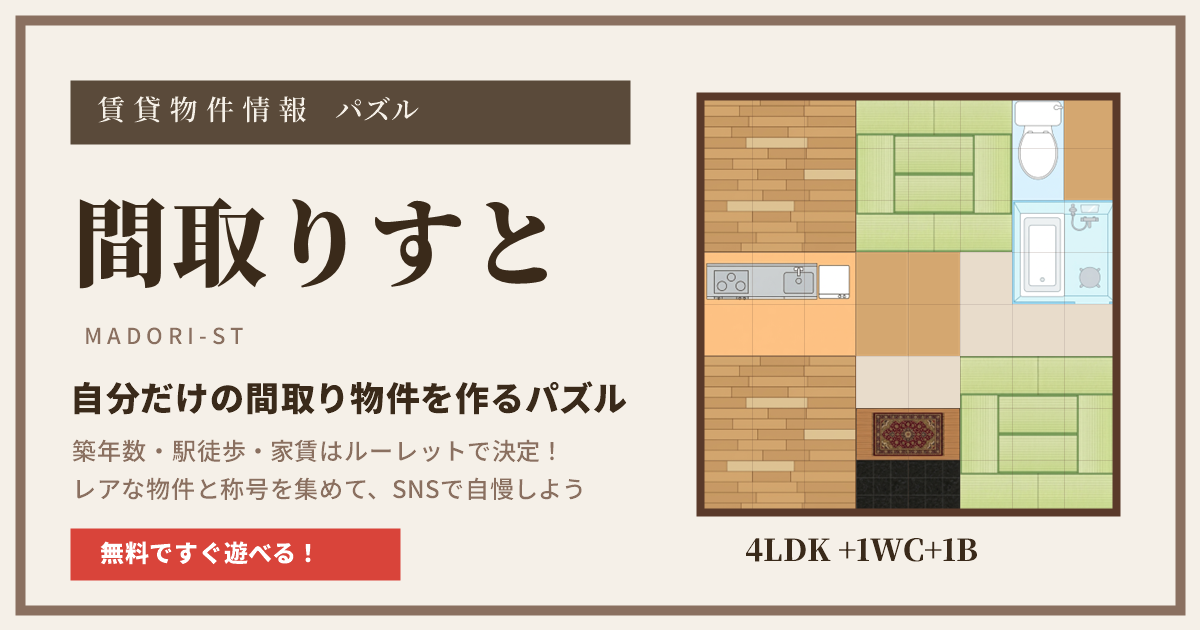
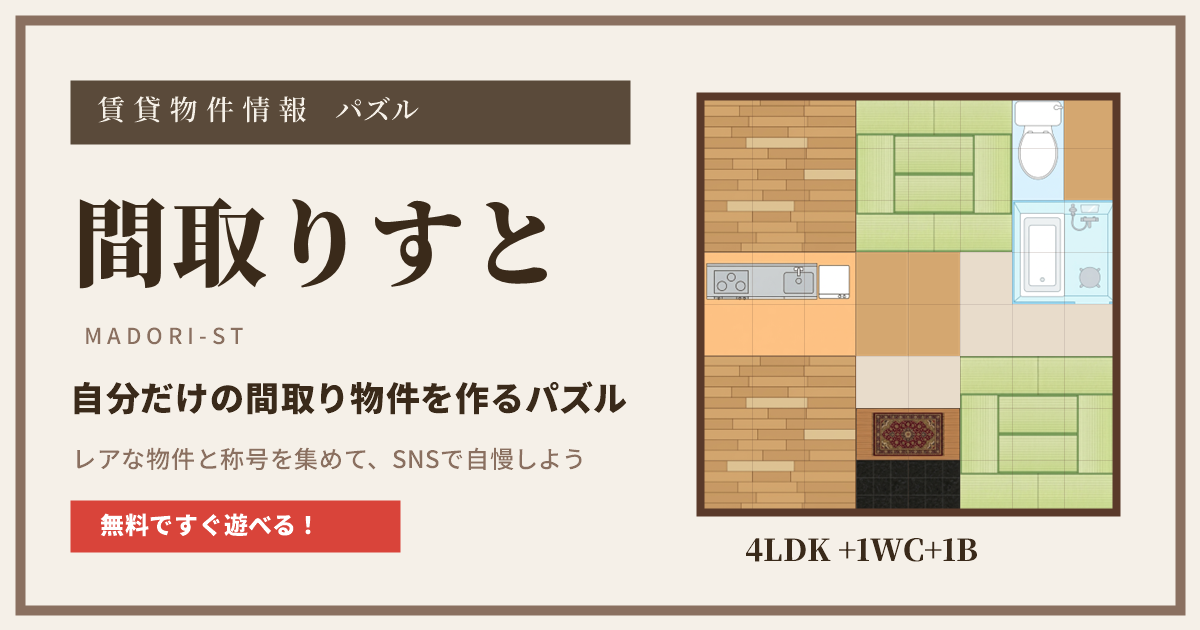
テスト版のみ：完成カードのマドリスト名の右に称号バッジ・プロフィールにつける称号（レア度順）・称号一覧からタップでつけ外し・条件の文字を大きく・紹介文からルーレットの一文を外す

Changed region(s): [[0.0308, 0.6937, 0.4933, 0.9349]]

diff --git a/test.html b/test.html
@@ -5,11 +5,11 @@
 <meta name="viewport" content="width=device-width, initial-scale=1.0, maximum-scale=1.0, user-scalable=no, viewport-fit=cover">
 <title>間取りすと｜自分だけの間取り物件を作るパズル</title>
 <!-- リンクを貼った時に出る紹介（LINE・X など） -->
-<meta name="description" content="パーツをはめて、あなただけの間取り物件を完成させるパズルゲーム。築年数・駅徒歩・家賃はルーレットで決まる！レアな物件と称号を集めて、SNSで自慢しよう🏠">
+<meta name="description" content="パーツをはめて、あなただけの間取り物件を完成させるパズルゲーム。レアな物件と称号を集めて、SNSで自慢しよう🏠">
 <meta property="og:type" content="website">
 <meta property="og:site_name" content="間取りすと">
 <meta property="og:title" content="間取りすと｜自分だけの間取り物件を作るパズル">
-<meta property="og:description" content="パーツをはめて、あなただけの間取り物件を完成させるパズルゲーム。築年数・駅徒歩・家賃はルーレットで決まる！レアな物件と称号を集めて、SNSで自慢しよう🏠">
+<meta property="og:description" content="パーツをはめて、あなただけの間取り物件を完成させるパズルゲーム。レアな物件と称号を集めて、SNSで自慢しよう🏠">
 <meta property="og:url" content="https://ramune-ai.github.io/madori-st/">
 <meta property="og:image" content="https://ramune-ai.github.io/madori-st/image/ogp.png">
 <meta name="twitter:card" content="summary_large_image">
@@ -504,6 +504,26 @@ body.resume-hide #screen-game{opacity:0!important;}
   border-color:rgba(90,74,58,.14);cursor:default;
 }
 
+/* プロフィール：欄の見出し */
+.ne-label{font-family:'Noto Serif JP',serif;font-size:14px;font-weight:700;color:var(--brown-dark);margin:2px 0 8px;letter-spacing:.06em;text-align:left;}
+.ne-label span{display:block;font-family:'Noto Sans JP',sans-serif;font-size:11px;font-weight:400;color:var(--brown-light);letter-spacing:.02em;margin-top:2px;}
+/* 称号一覧：つけている称号 */
+.title-grid-card.owned{cursor:pointer;}
+.title-grid-card.equipped{border-color:#5a8a50;box-shadow:0 0 0 2px rgba(90,138,80,.45);}
+.title-grid-eq{position:absolute;top:6px;left:6px;font-size:10px;font-weight:800;letter-spacing:.04em;background:#5a8a50;color:#fff;padding:2px 7px;border-radius:10px;}
+.titles-hint{font-size:13px;color:var(--brown);background:#fff8ea;border:1px dashed rgba(200,160,96,.6);border-radius:8px;padding:6px 10px;margin:-4px 0 12px;text-align:center;}
+/* 称号をつける・外す時の確認 */
+#mini-confirm{position:fixed;inset:0;z-index:1200;display:none;align-items:center;justify-content:center;background:rgba(40,28,18,.45);}
+#mini-confirm.active{display:flex;}
+#mini-confirm .mc-card{background:#f5f0e8;border-radius:16px;padding:22px 22px 18px;width:min(300px,86vw);text-align:center;box-shadow:0 10px 30px rgba(0,0,0,.3);font-family:'Noto Sans JP',sans-serif;}
+#mini-confirm .mc-badge{display:flex;justify-content:center;margin-bottom:8px;}
+#mini-confirm .mc-name{font-family:'Noto Serif JP',serif;font-size:18px;font-weight:700;color:var(--brown-dark);margin-bottom:6px;}
+#mini-confirm .mc-msg{font-size:14px;color:var(--brown);margin-bottom:16px;line-height:1.6;}
+#mini-confirm .mc-btns{display:flex;gap:10px;}
+#mini-confirm button{flex:1;padding:12px 0;border-radius:999px;font-size:15px;font-weight:700;cursor:pointer;font-family:inherit;}
+#mini-confirm .mc-ok{background:var(--brown-dark);color:#f5f0e8;border:none;}
+#mini-confirm .mc-no{background:#fff;color:var(--brown-dark);border:1.5px solid rgba(90,74,58,.25);}
+@media(min-width:600px){ #mini-confirm .mc-card{zoom:var(--pcs,1);} }
 /* チュートリアル：説明しているボタンに目が行くよう、光の輪を広げる */
 @keyframes tutFocus{
   0%{box-shadow:0 0 0 3px rgba(232,160,32,.95),0 0 0 3px rgba(232,160,32,.6);}
@@ -914,7 +934,8 @@ html{overflow-y:scroll;}html,body{overflow-x:hidden;}
 .res-meta{font-family:'Noto Sans JP',sans-serif;font-size:14px;color:#5a4a3a;letter-spacing:.04em;text-align:center;line-height:1.4;padding:4px 8px 0;max-width:100%;}
 .res-meta-name{font-family:'Noto Serif JP',serif;font-weight:700;white-space:nowrap;display:flex;align-items:center;justify-content:center;gap:6px;margin-bottom:3px;}
 .res-name-text{white-space:nowrap;}
-.res-name-badge{display:inline-flex;align-items:center;justify-content:center;flex-shrink:0;margin-right:4px;}
+.res-meta{display:flex;align-items:center;justify-content:center;gap:12px;}
+.res-name-badge{display:inline-flex;align-items:center;justify-content:center;flex-shrink:0;margin:0;}
 .res-meta-date{color:#8a7060;font-size:12px;text-align:center;}
 .res-promo-sep{border-top:1px dashed rgba(90,74,58,.3);margin:6px 8px 0;}
 .res-promo{margin-top:5px;padding-bottom:0;font-family:'Noto Sans JP',sans-serif;line-height:1.4;}
@@ -1084,19 +1105,19 @@ html{overflow-y:scroll;}html,body{overflow-x:hidden;}
   display:grid;
   grid-template-columns:repeat(4,1fr);
   /* auto だと称号名が2行のカードだけ背が伸びて高さが揃わないので固定する */
-  grid-auto-rows:164px;
+  grid-auto-rows:180px;
   gap:10px;
   padding:4px 0;
   align-content:start;
 }
 @media(max-width:520px){
-  .title-grid{grid-template-columns:repeat(2,1fr);grid-auto-rows:142px;gap:9px;}
+  .title-grid{grid-template-columns:repeat(2,1fr);grid-auto-rows:162px;gap:9px;}
   .title-grid-badge{font-size:30px;}
   .title-grid-name{font-size:16px;line-height:1.2;}
-  .title-grid-cond{font-size:11px;line-height:1.3;}
+
   .title-grid-name{font-size:17px;line-height:1.25;}
   .title-grid-card.locked .title-grid-name{font-size:16px;}
-  .title-grid-cond{font-size:12px;line-height:1.35;}
+  .title-grid-cond{font-size:14px;line-height:1.35;}
   .title-grid-card{padding:8px 8px;min-height:0;gap:4px;}
 }
 /* スマホのスタート画面：左上のリンクの下からロゴを始める（--start-top は fitStartTop が測る）。
@@ -1189,7 +1210,7 @@ html{overflow-y:scroll;}html,body{overflow-x:hidden;}
   font-size:11px;
 }
 .title-grid-cond{
-  font-size:11px;color:var(--brown-light);
+  font-size:14px;color:var(--brown-light);
   line-height:1.45;letter-spacing:.02em;
 }
 /* NEWは右上の角に。縦の場所を取らないのでカードの中身が押し出されない */
@@ -1528,8 +1549,8 @@ html{overflow-y:scroll;}html,body{overflow-x:hidden;}
   <button class="btn-start" onclick="gotoGame()">は じ め る</button>
   <!-- 集めたものを見る3枠。左からプロフィール／称号／マイ物件 -->
   <div class="start-sub-btns">
-    <button class="btn-sub" onclick="openNameEdit('name')">
-      <span class="sub-ico">👤</span>
+    <button class="btn-sub" onclick="openNameEdit('profile')">
+      <span class="sub-ico" id="start-prof-ico">👤</span>
       <span class="sub-name">プロフィール</span>
       <span class="sub-val" id="start-name-text">名前未設定</span>
     </button>
@@ -1552,11 +1573,13 @@ html{overflow-y:scroll;}html,body{overflow-x:hidden;}
   <div class="modal-box name-edit-box" style="padding:28px 28px 0;display:flex;flex-direction:column;max-height:84vh;">
     <button class="modal-close" onclick="closeNameEdit()">✕</button>
     <div class="modal-title" id="name-edit-modal-title">マドリスト名を設定</div>
+    <div class="ne-label" id="name-edit-title-label">つける称号<span>完成カードにバッジが付きます（レア度の高い順）</span></div>
+    <div id="name-edit-hint" style="font-size:11px;color:var(--brown-light);margin-bottom:10px;display:none;">称号を選んで名前と一緒に表示できます</div>
+    <div id="name-edit-title-list" style="display:flex;flex-wrap:wrap;gap:8px;margin-bottom:16px;overflow-y:auto;flex:1;min-height:0;"></div>
+    <div class="ne-label">マドリスト名</div>
     <input id="player-name-input" type="text" maxlength="8" placeholder="名前を入力（最大8文字）"
       style="width:100%;background:#fff;border:1px solid rgba(90,74,58,.25);border-radius:4px;padding:10px 14px;font-size:15px;color:var(--brown-dark);font-family:'Noto Serif JP',serif;letter-spacing:.1em;outline:none;margin-bottom:16px;"
       onfocus="this.style.borderColor='var(--accent)'" onblur="this.style.borderColor='rgba(90,74,58,.25)'">
-    <div id="name-edit-hint" style="font-size:11px;color:var(--brown-light);margin-bottom:16px;">称号を選んで名前と一緒に表示できます</div>
-    <div id="name-edit-title-list" style="display:flex;flex-wrap:wrap;gap:8px;margin-bottom:16px;overflow-y:auto;flex:1;"></div>
     <div class="name-edit-foot"><button onclick="saveNameEdit()" style="width:100%;background:var(--brown-dark);color:#f5f0e8;font-family:'Noto Serif JP',serif;font-size:15px;letter-spacing:.15em;padding:14px 0;border:none;border-radius:6px;cursor:pointer;">決　定</button></div>
   </div>
 </div>
@@ -1770,8 +1793,12 @@ html{overflow-y:scroll;}html,body{overflow-x:hidden;}
       </div>
       <!-- マドリスト名+称号バッジ → 公開日（中央） -->
       <div class="res-meta" id="res-meta">
-        <div class="res-meta-name"><span class="res-name-badge" id="res-meta-title" style="display:none;"></span><span class="res-name-text">マドリスト　<span id="res-name2">とくめい</span></span></div>
-        <div class="res-meta-date">情報公開日　<span id="res-date">--</span></div>
+        <div class="res-meta-lines">
+          <div class="res-meta-name"><span class="res-name-text">マドリスト　<span id="res-name2">とくめい</span></span></div>
+          <div class="res-meta-date">情報公開日　<span id="res-date">--</span></div>
+        </div>
+        <!-- つけている称号のバッジ（言葉はなし） -->
+        <span class="res-name-badge" id="res-meta-title" style="display:none;"></span>
       </div>
       <div class="res-promo-sep"></div>
       <div class="res-promo"><span class="res-promo-sns">X・Instagram・TikTok｜@ramune_aiai</span><span class="res-promo-author">　制作：らむねあい</span></div>
@@ -2471,6 +2498,13 @@ function updateStartProfile(){
     if(sc) sc.textContent=(hist.length-favN)+' / '+HISTORY_MAX+(favN?'　★'+favN:'');
   }catch(e){}
   window._playerName=name;
+  // つけている称号があれば、プロフィールのアイコンをそのバッジにする
+  try{
+    const sel=localStorage.getItem('madori-selected-title')||'';
+    const m=sel?ALL_TITLES_MASTER.find(x=>x.title===sel):null;
+    const ico=document.getElementById('start-prof-ico');
+    if(ico) ico.innerHTML=m?titleBadgeHTML(m.badge,m.rar,46):'👤';
+  }catch(e){}
 }
 function openNameEdit(mode){
   playSE('tap');
@@ -2502,6 +2536,11 @@ function openNameEdit(mode){
     noneBtn.style.cssText='padding:6px 14px;border-radius:20px;border:1.5px solid '+(sel===''?'var(--brown-dark)':'rgba(90,74,58,.25)')+';background:'+(sel===''?'var(--brown-dark)':'#fff')+';color:'+(sel===''?'#f5f0e8':'var(--brown-light)')+';font-size:12px;cursor:pointer;font-family:Noto Serif JP,serif;letter-spacing:.06em;transition:all .15s;';
     noneBtn.onclick=()=>selectTitleChip('');
     listEl.appendChild(noneBtn);
+    // レア度の高い順（出にくい順）に並べる
+    titles=titles.slice().sort((a,b)=>{
+      const ma=ALL_TITLES_MASTER.find(x=>x.title===a)||{}, mb=ALL_TITLES_MASTER.find(x=>x.title===b)||{};
+      return ((ma.rp==null?1:ma.rp)-(mb.rp==null?1:mb.rp))||((ma.rar||9)-(mb.rar||9));
+    });
     titles.forEach(t=>{
       const btn=document.createElement('button');
       btn.dataset.val=t;
@@ -2518,9 +2557,11 @@ function openNameEdit(mode){
   const hint=document.getElementById('name-edit-hint');
   const list2=document.getElementById('name-edit-title-list');
   if(inp) inp.style.display=(emode==='title')?'none':'';
-  if(hint) hint.style.display=(emode==='name')?'none':'';
   if(list2) list2.style.display=(emode==='name')?'none':'flex';
-  if(mt) mt.textContent=(emode==='title')?'表示称号を変更':(emode==='name')?'マドリスト名を編集':'マドリスト名を設定';
+  const tl=document.getElementById('name-edit-title-label');
+  if(tl) tl.style.display=(emode==='name')?'none':'';
+  document.querySelectorAll('#name-edit-overlay .ne-label').forEach(l=>{ if(l.id!=='name-edit-title-label') l.style.display=(emode==='title')?'none':''; });
+  if(mt) mt.textContent=(emode==='profile')?'プロフィール':(emode==='title')?'表示称号を変更':(emode==='name')?'マドリスト名を編集':'マドリスト名を設定';
   ov.classList.add('active');
 }
 function selectTitleChip(val){
@@ -2542,7 +2583,51 @@ function saveNameEdit(){
   localStorage.setItem('madori-player-name',name);
   localStorage.setItem('madori-selected-title',selTitle);
   updateStartProfile();
+  refreshResultBadge();
   closeNameEdit();
+}
+// 完成画面を開いている時は、つけた称号のバッジをすぐ反映する（シェア画像も作り直す）
+function refreshResultBadge(){
+  try{
+    const scr=document.getElementById('screen-result');
+    const mtEl=document.getElementById('res-meta-title');
+    if(!mtEl)return;
+    const sel=localStorage.getItem('madori-selected-title')||'';
+    const m=sel?ALL_TITLES_MASTER.find(x=>x.title===sel):null;
+    if(m){ mtEl.innerHTML=titleBadgeHTML(m.badge,m.rar,50); mtEl.title=sel; mtEl.style.display='inline-flex'; }
+    else mtEl.style.display='none';
+    if(scr&&scr.classList.contains('active')){
+      try{ if(window._lastResult)window._lastResult.equipped=sel; }catch(e){}
+      prepareShareImage();
+    }
+  }catch(e){}
+}
+// 小さな確認（OKで true）
+function miniConfirm(html,okLabel,noLabel){
+  return new Promise(res=>{
+    let el=document.getElementById('mini-confirm');
+    if(!el){ el=document.createElement('div'); el.id='mini-confirm'; document.body.appendChild(el); }
+    el.innerHTML='<div class="mc-card">'+html+'<div class="mc-btns"><button class="mc-no">'+(noLabel||'やめる')+'</button><button class="mc-ok">'+(okLabel||'OK')+'</button></div></div>';
+    el.classList.add('active');
+    const done=v=>{ el.classList.remove('active'); res(v); };
+    el.querySelector('.mc-ok').onclick=()=>done(true);
+    el.querySelector('.mc-no').onclick=()=>done(false);
+    el.onclick=e=>{ if(e.target===el)done(false); };
+  });
+}
+// 称号一覧から、タップでつける・外す
+async function toggleEquipTitle(title){
+  const m=ALL_TITLES_MASTER.find(x=>x.title===title); if(!m)return;
+  const cur=localStorage.getItem('madori-selected-title')||'';
+  const on=cur===title;
+  const html='<div class="mc-badge">'+titleBadgeHTML(m.badge,m.rar,64)+'</div><div class="mc-name">'+title+'</div>'
+    +'<div class="mc-msg">'+(on?'この称号を外しますか？':'この称号のバッジを、<br>完成カードにつけますか？')+'</div>';
+  const ok=await miniConfirm(html,on?'外す':'つける',on?'そのまま':'やめる');
+  if(!ok)return;
+  try{ localStorage.setItem('madori-selected-title',on?'':title); }catch(e){}
+  updateStartProfile(); refreshResultBadge();
+  showGameToast(on?'称号を外しました':'「'+title+'」をつけました');
+  renderTitlesPage();
 }
 function closeNameEdit(e){
   const ov=document.getElementById('name-edit-overlay');
@@ -3525,7 +3610,7 @@ async function renderHistoryCard(entry,snap){
     q('res-name2').textContent=(entry.propName||'').replace(/^間取りすと：/,'')||'とくめい';
     const mt=q('res-meta-title');
     const td=entry.equipped?ALL_TITLES_MASTER.find(t=>t.title===entry.equipped):null;
-    if(td){ mt.innerHTML=titleBadgeHTML(td.badge,td.rar,38); mt.style.display='inline-flex'; }
+    if(td){ mt.innerHTML=titleBadgeHTML(td.badge,td.rar,50); mt.style.display='inline-flex'; }
     else mt.style.display='none';
     q('res-date').textContent=_fmtHistDate(entry.date);
     drawResultPreview(q('res-madori-preview'),snap,390);
@@ -3868,13 +3953,24 @@ function renderTitlesPage(){
   }
   body.appendChild(header);
 
+  if(owned.size){
+    const hint=document.createElement('div');
+    hint.className='titles-hint';
+    hint.textContent='獲得した称号をタップすると、完成カードにバッジをつけられます';
+    body.appendChild(hint);
+  }
+  const equipped=localStorage.getItem('madori-selected-title')||'';
   const grid=document.createElement('div');
   grid.className='title-grid';
   pageItems.forEach(m=>{
     const isOwned=owned.has(m.title);
     const isNew=newSet.has(m.title);
     const card=document.createElement('div');
-    card.className='title-grid-card '+(isOwned?'owned':'locked')+(isNew?' is-new':'');
+    card.className='title-grid-card '+(isOwned?'owned':'locked')+(isNew?' is-new':'')+(isOwned&&equipped===m.title?' equipped':'');
+    if(isOwned){
+      card.onclick=()=>toggleEquipTitle(m.title);
+      if(equipped===m.title){ const eq=document.createElement('div'); eq.className='title-grid-eq'; eq.textContent='つけてる'; card.appendChild(eq); }
+    }
 
     const badgeEl=document.createElement('div');
     badgeEl.className='title-grid-badge';
@@ -3985,7 +4081,7 @@ const UPDATE_VER=UPDATES[0].ver;
 // スマホのスタート画面：左上のリンクの下端を測って、ロゴをその下から始める
 // 間取りすと自体をシェアする（スマホは共有シート、PCは文面をコピー）
 const GAME_URL='https://ramune-ai.github.io/madori-st/';
-const GAME_SHARE_TEXT='自分だけの間取り物件を作るパズル『間取りすと』🏠\nパーツをはめて理想の間取りを完成させよう！築年数・駅徒歩・家賃はルーレットで決まる！\n#間取りすと #間取りパズル';
+const GAME_SHARE_TEXT='自分だけの間取り物件を作るパズル『間取りすと』🏠\nパーツをはめて理想の間取りを完成させよう！\n#間取りすと #間取りパズル';
 async function shareGame(){
   const isMobile=('ontouchstart' in window)&&Math.min(window.innerWidth,window.innerHeight)<820;
   if(isMobile&&navigator.share){
@@ -4471,7 +4567,7 @@ function showResult(){
   const mtEl=document.getElementById('res-meta-title');
   if(mtEl){
     const tdef=equipped?ALL_TITLES_MASTER.find(t=>t.title===equipped):null;
-    if(tdef){ mtEl.innerHTML=titleBadgeHTML(tdef.badge,tdef.rar,38); mtEl.title=equipped; mtEl.style.display='inline-flex'; }
+    if(tdef){ mtEl.innerHTML=titleBadgeHTML(tdef.badge,tdef.rar,50); mtEl.title=equipped; mtEl.style.display='inline-flex'; }
     else mtEl.style.display='none';
   }
   const n2=document.getElementById('res-name2');
